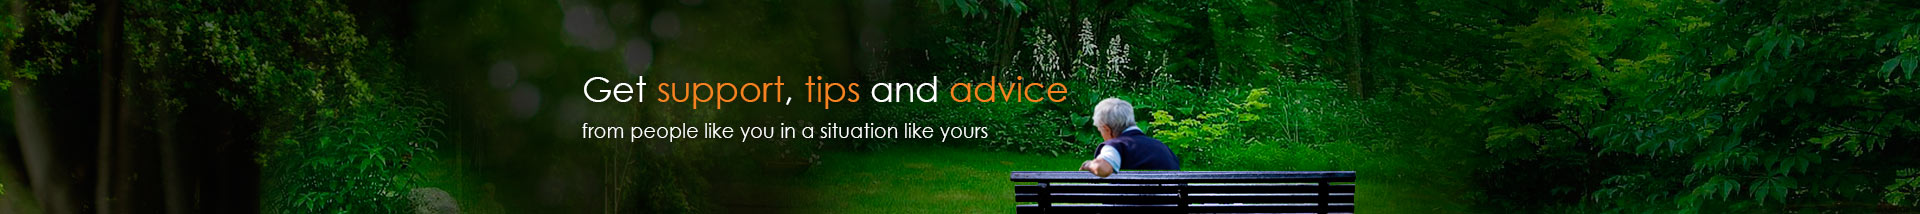
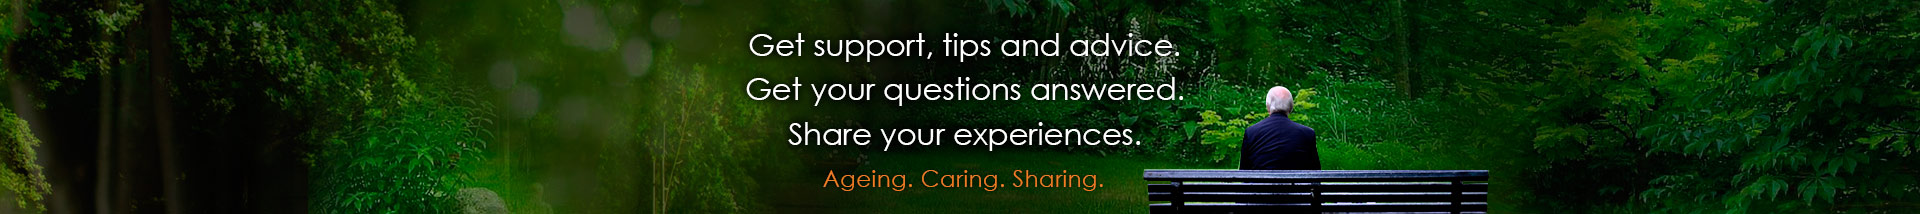
Home page slider changes

diff --git a/src/main/webapp/app/components/home/home.html b/src/main/webapp/app/components/home/home.html
@@ -28,6 +28,11 @@
 				<img width="100%" src="assets/img/home/banner-3-800.jpg?versionTimeStamp=%PROJECT_VERSION%"/>
 			</div>
 		</div>
+		<a class="left carousel-control" href="#myCarousel" data-slide="prev">
+			<span class="icon-prev"></span>
+		</a> <a class="right carousel-control" href="#myCarousel"
+			data-slide="next"> <span class="icon-next"></span>
+		</a>
 	</div>
 </div>
 <div class="container by_home_content by-home-page">
